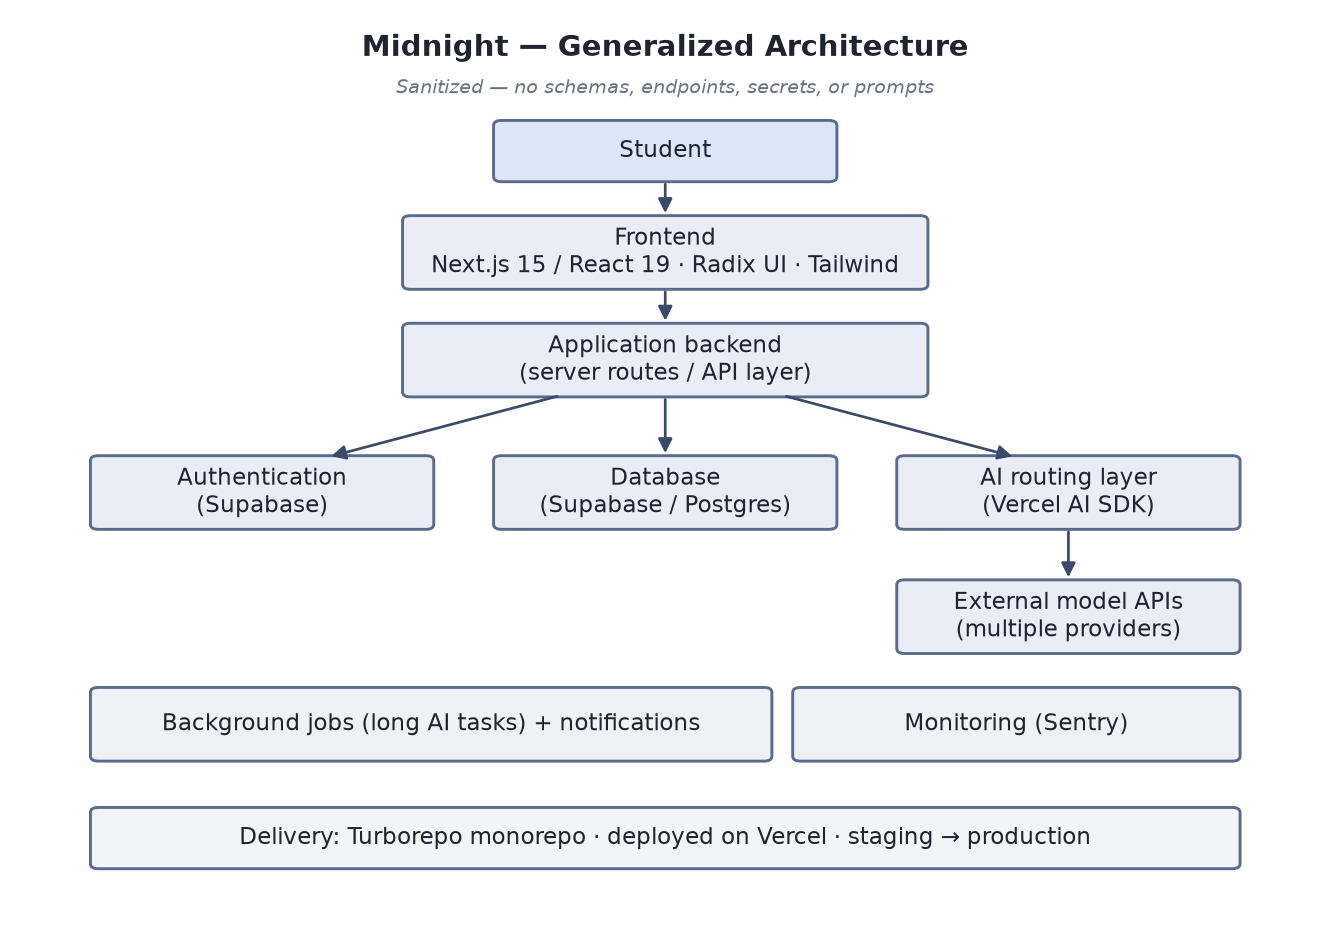
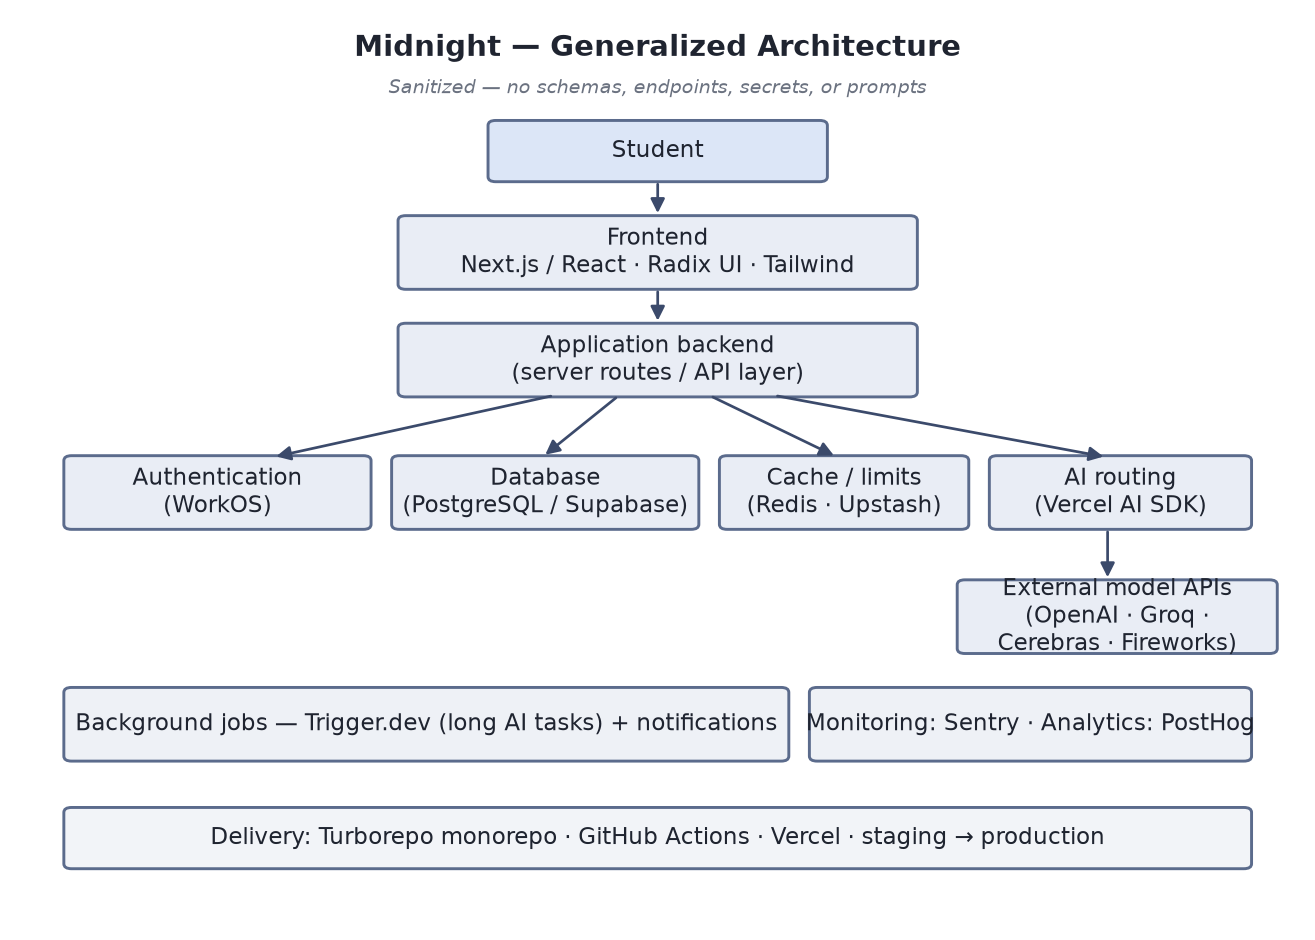
Align metrics & stack with authoritative version
- the beta: ~1,000 live beta users (relabeled), 10M+ views, ~25 contributors
- Role: led product, research, dev priorities, testing, marketing (with co-founder)
- Full verified stack: WorkOS, Upstash Redis, Redux Toolkit, React Query, Trigger.dev,
  PostHog, Playwright/Vitest, GitHub Actions, multi-provider AI (OpenAI/Groq/Cerebras/Fireworks)
- De-feature unverified 70% cost claim; update architecture + timeline diagrams

diff --git a/CASE_STUDY.md b/CASE_STUDY.md
@@ -7,11 +7,13 @@
 ## 1. Executive summary
 Midnight is an AI-powered student success platform ([www.midapp.me](https://www.midapp.me)) that
 helps students turn scattered academic inputs into finished work through AI-assisted grading,
-quiz generation, flashcards, tutoring, and task management. It is a rebuild of an earlier alpha
-product, **the beta**. On the rebuild I served as lead engineer and the top code contributor
-(**1,684 of 3,607 commits, ~47%** — verified from the private repository). This case study
-documents the product problem, the the beta→Midnight transition, my responsibilities, the
-technical approach, and honest results and limitations — without exposing proprietary code.
+quiz generation, flashcards, tutoring, and Canvas LMS integration. It is a rebuild and relaunch of
+an earlier product, **the beta**. Working in close coordination with a co-founder, I led product
+planning, user research, development priorities, testing, and marketing strategy, and served as the
+lead engineer and top code contributor (**1,684 of 3,607 commits, ~47%** — verified from the
+private repository). This case study documents the product problem, the the beta→Midnight transition,
+my responsibilities, the technical approach, and honest results and limitations — without exposing
+proprietary code.
 
 ## 2. The student problem
 Students manage assignments, study materials, deadlines, and feedback across many disconnected
@@ -21,10 +23,11 @@ Midnight targets that gap with a single, student-first workspace where AI helps 
 *organize* academic work, and where long-running tasks keep progressing in the background.
 
 ## 3. The original the beta product
-the beta was the earlier alpha of this idea — an AI-assisted academic tool aimed at students.
-It validated demand and generated meaningful early traction (see the beta metrics in
-[METRICS.md](METRICS.md): reported ~4,000 alpha users, 10M+ social-media views, ~25 contributors).
-*[TO DO: confirm the beta's exact feature scope and launch window.]*
+the beta was the earlier version of this idea — an AI-assisted academic product for students. It
+validated demand and generated meaningful early traction: **approximately 1,000 live beta users**
+and **more than 10 million social-media views**, built with a team of **~25 contributors** (all
+founder-reported; see [METRICS.md](METRICS.md)). *[TO DO: confirm the beta's exact feature scope and
+launch window.]*
 
 ## 4. Problems discovered during the alpha
 The alpha surfaced the usual early-product issues: unclear product focus, features that didn't
@@ -57,17 +60,21 @@ commits). The rest are marked for your confirmation so nothing is overstated.
 | Category | Ownership | Basis |
 |----------|-----------|-------|
 | Engineering (frontend + backend) | **Led** | Verified: 1,684/3,607 commits (~47%), largest share |
-| AI infrastructure (model routing, background jobs) | **Contributed / Co-led** *[TO DO: confirm]* | Stack present in repo; confirm your specific ownership |
-| Product strategy | *Needs confirmation* | [TO DO] |
-| User research | *Needs confirmation* | [TO DO] |
-| Product requirements | *Needs confirmation* | [TO DO] |
-| Analytics | *Needs confirmation* | [TO DO] |
-| Marketing | *Needs confirmation* | [TO DO] |
-| Contributor coordination | *Needs confirmation* | [TO DO] |
-| Launch planning | *Needs confirmation* | [TO DO] |
+| Product planning / strategy | **Led** (with co-founder) | Self-reported |
+| User research | **Led** | Self-reported |
+| Product requirements / development priorities | **Led** | Self-reported |
+| Testing | **Led** | Self-reported (repo also has Playwright/Vitest suites) |
+| Marketing strategy | **Led** | Self-reported |
+| Contributor coordination | **Led / Co-led** | Coordinated ~25 contributors (the beta stage), with co-founder |
+| AI infrastructure (multi-provider routing, background jobs) | **Contributed / Co-led** | Stack verified in repo; confirm exact split |
+| Analytics | **Contributed** *[TO DO: confirm]* | PostHog present in stack |
+| Launch planning | **Co-led** (with co-founder) | Self-reported |
 
-> This case study does **not** claim I personally wrote every part of the application. Midnight
-> is the work of a team of ~13+ contributors; my largest, verifiable contribution is engineering.
+> Work was done in **close coordination with a co-founder**. This case study does not claim I
+> personally built every part of the platform: Midnight is a team effort (~13+ contributors in the
+> current repo; ~25 during the the beta stage). My largest independently verifiable contribution is
+> engineering (top contributor, ~47% of commits); the product/research/testing/marketing leadership
+> above is self-reported.
 
 ## 8. User research and feedback
 Midnight's direction is explicitly student-first, and features map to observed student workflows
@@ -93,23 +100,20 @@ onboarded.]*
 *[TO DO: confirm the single hardest technical problem you personally solved, so it can be
 highlighted here.]*
 
-## 11. AI cost optimization
-A **~70% reduction in AI operational cost** is reported from the the beta era. **This number is not
-yet independently verified in this case study** and should not be published as fact until the
-details below are confirmed. See the verification checklist and before/after table in
-[METRICS.md → AI cost optimization](METRICS.md#ai-cost-optimization).
-
-What can be stated safely today: the current stack integrates **multiple AI model providers**
-behind a routing layer, which is a common enabler of cost control (e.g., routing to
-lower-cost providers for suitable requests). **The specific methods and the exact percentage
-remain `[TO DO: verify]`** — do not state a cause (routing, caching, prompt compression, provider
-change, etc.) until confirmed against real cost data.
+## 11. AI infrastructure
+The platform serves AI features through a **multi-provider routing layer** (Vercel AI SDK over
+OpenAI, Groq, Cerebras, and Fireworks AI), with **Upstash Redis** for rate limiting/caching and
+**Trigger.dev** running long AI tasks as background jobs. This architecture supports flexibility
+across model providers and keeps latency and cost manageable. No specific cost-reduction
+percentage is claimed here; if quantified later, it should be verified first (scope, baseline,
+method) — see [METRICS.md](METRICS.md).
 
 ## 12. Team and collaboration
-Midnight is built by a team (~13+ contributors in the current repository; ~25 reported across the
-the beta era). I was the top code contributor and coordinated closely with other engineers and
-contributors. *[TO DO: confirm co-founder/teammate roles you want represented, described by
-function rather than by name unless they consent to being named.]*
+Midnight is built by a team (~13+ contributors in the current repository; ~25 during the the beta
+stage). I was the top code contributor and worked in **close coordination with a co-founder** on
+product and leadership, while coordinating other engineers and contributors. *[TO DO: confirm how
+you want the co-founder and teammates represented — described by function rather than by name
+unless they consent to being named.]*
 
 ## 13. Launch and growth
 Midnight is live in production at [www.midapp.me](https://www.midapp.me), with a staging

diff --git a/METRICS.md b/METRICS.md
@@ -12,13 +12,12 @@
 | Code contribution (mine) | Share of total commits authored by me in the current repo | **1,684 / 3,607 commits (~47%)** | repo start → Jul 2026 | Private git history (`git shortlog`) | ✅ Yes (from git) |
 | Contributors (current repo) | Distinct commit authors in the current repo | **~13+** | repo start → Jul 2026 | Private git history | ✅ Yes (from git) |
 
-## Historical — the beta (earlier alpha)
-| Metric | Definition | Value | Period | Source | Verified | Notes |
-|--------|-----------|-------|--------|--------|----------|-------|
-| Alpha users | *[TO DO: define — sign-ups? registered? active?]* | ~4,000 *(reported)* | [TO DO] | [TO DO: analytics / founder recollection] | ❌ Not verified | Label precisely before publishing |
-| Social-media views | *[TO DO: define — video views? impressions? which platform(s)?]* | 10M+ *(reported)* | [TO DO] | [TO DO: platform analytics] | ❌ Not verified | "Views" ≠ "reach" ≠ "impressions" — pick one |
-| Contributors | People who contributed to the beta | ~25 *(reported)* | [TO DO] | [TO DO] | ❌ Not verified | Distinguish code vs non-code contributors |
-| AI cost reduction | See AI cost section below | ~70% *(reported)* | [TO DO] | [TO DO] | ❌ Not verified | Scope of "cost" must be defined |
+## Historical — the beta (earlier product)
+| Metric | Definition | Value | Period | Source | Independently verified | Notes |
+|--------|-----------|-------|--------|--------|------------------------|-------|
+| Live beta users | Users on the the beta beta | **~1,000** | [TO DO: date range] | Product analytics (founder-reported) | Self-reported | Precise label; not combined with Midnight |
+| Social-media views | Video views across social channels | **10M+** | [TO DO: date range] | Platform analytics (founder-reported) | Self-reported | "Views" (not "reach"/"impressions") — confirm platform(s) |
+| Contributors | People who contributed during the the beta stage | **~25** | [TO DO: date range] | Founder-reported | Self-reported | Mix of code and non-code contributors |
 
 ## Current — Midnight
 | Metric | Definition | Value | Period | Source | Verified | Notes |
@@ -35,28 +34,13 @@
 > ⚠️ The "~400" figure must be labeled (e.g., "~400 registered users" **or** "~400 monthly active
 > users") — these mean very different things. Do not present it ambiguously.
 
-## AI cost optimization
-The reported **~70% AI cost reduction** cannot be published as fact until verified. Confirm each
-item below, then fill the table.
+## AI cost / infrastructure (not currently claimed as a headline metric)
+No specific cost-reduction percentage is claimed in this case study. What can be stated safely
+from the stack is architectural: the platform integrates **multiple AI model providers**
+(OpenAI, Groq, Cerebras, Fireworks AI) behind a routing layer via the Vercel AI SDK, and uses
+**Upstash Redis** for rate limiting/caching — both common enablers of cost and latency control.
 
-**Verification checklist**
-- [ ] Scope: is "cost" **AI/model API cost**, **infrastructure**, or **total operational cost**?
-- [ ] Baseline period (before) and comparison period (after)
-- [ ] Cost per request before vs after (or total cost normalized by usage)
-- [ ] Did usage volume/patterns change between periods? (a drop in usage is not an optimization)
-- [ ] Did output quality change? (cheaper but worse is not a clean win)
-- [ ] What caused the reduction? (do not state a method until confirmed — e.g., model routing,
-      caching, prompt compression, response-length limits, batching, provider change, architecture)
-
-**Before / after (fill after verification)**
-| | Baseline (before) | After | Change |
-|--|-------------------|-------|--------|
-| Period | [TO DO] | [TO DO] | — |
-| Cost basis (per request / per user / total) | [TO DO] | [TO DO] | [TO DO] |
-| Normalized cost | [TO DO] | [TO DO] | ~70% ↓ *(reported, unverified)* |
-| Method(s) | — | [TO DO: only if verified] | — |
-| Quality impact | — | [TO DO] | — |
-
-*Observed from the stack (not proof of the number): the platform integrates multiple AI providers
-behind a routing layer, which is a common enabler of cost control. This does not by itself confirm
-the 70% figure or its cause.*
+> If you later want to publish a specific figure (e.g., an earlier "~70% reduction"), verify it
+> first: define scope (AI API vs infrastructure vs total), baseline vs comparison period, whether
+> usage/quality changed, and the specific method — then present a before/after. Until then, keep it
+> qualitative and unquantified. `[TO DO: verify before quantifying]`

diff --git a/ARCHITECTURE.md b/ARCHITECTURE.md
@@ -40,14 +40,16 @@ A rendered version is in [assets/architecture-diagram.png](assets/architecture-d
   UI primitives with Tailwind CSS; server state via TanStack Query.
 - **Application backend** — server-side routes handling requests, orchestration, and access to
   data and model providers.
-- **Authentication** — managed auth (Supabase).
-- **Database** — Supabase / Postgres. *Schema intentionally omitted.*
-- **AI routing layer** — a single interface over **multiple model providers** via the Vercel AI
-  SDK, so requests can be served by different providers. *Routing logic and prompts omitted.*
+- **Authentication** — managed auth via **WorkOS (AuthKit)**.
+- **Database** — PostgreSQL (Supabase). *Schema intentionally omitted.*
+- **Caching / rate limiting** — Redis (Upstash).
+- **AI routing layer** — a single interface over **multiple model providers** (OpenAI, Groq,
+  Cerebras, Fireworks AI) via the Vercel AI SDK, so requests can be served by different providers.
+  *Routing logic and prompts omitted.*
 - **Background jobs** — long-running AI work (grading, generation, tutoring artifacts, generated
-  media) runs asynchronously so the UI stays responsive; progress is tracked and completion
-  triggers notifications.
-- **Monitoring** — error tracking / observability (Sentry).
+  media) runs asynchronously via **Trigger.dev** so the UI stays responsive; progress is tracked
+  and completion triggers notifications.
+- **Monitoring & analytics** — error tracking (Sentry) and product analytics (PostHog).
 - **Delivery** — monorepo (Turborepo + Yarn workspaces), deployed on Vercel, with staging used to
   validate configuration and deploys before production.
 
@@ -56,17 +58,23 @@ Confirmed by inspecting the private repository's manifests (library names are no
 
 | Layer | Technology |
 |-------|-----------|
-| Language / tooling | TypeScript, Turborepo, Yarn workspaces, Prettier, ESLint, Vitest, Husky |
-| Frontend | Next.js 15, React 19, Radix UI, Tailwind CSS, TanStack Query |
-| Auth & data | Supabase (auth + Postgres) |
-| AI | Vercel AI SDK with multiple model providers |
-| Background / async | Background job processing for long AI tasks *[TO DO: confirm which items to name publicly]* |
-| Monitoring | Sentry |
-| Hosting | Vercel |
+| Language / tooling | TypeScript, Node.js, Turborepo, Yarn workspaces, Prettier, ESLint, Husky |
+| Frontend | Next.js, React, Tailwind CSS, Radix UI |
+| State / data-fetching | Redux Toolkit, React Query (TanStack Query) |
+| Auth | WorkOS (AuthKit) |
+| Database | PostgreSQL (Supabase) |
+| Caching / rate limiting | Redis (Upstash) |
+| AI | Multi-provider LLM integration via the Vercel AI SDK — OpenAI, Groq, Cerebras, Fireworks AI (Llama, GPT-OSS, and GLM model families) |
+| Background jobs | Trigger.dev (long-running AI tasks) |
+| Email | Resend / React Email |
+| Analytics & monitoring | PostHog, Sentry |
+| Testing | Playwright (E2E), Vitest (unit) |
+| CI/CD & hosting | GitHub Actions, Vercel |
+| Mobile | React Native (Expo) *(founder-reported; separate from the web repo inspected here)* |
 
 > Interactive/rich tutor features (e.g., graphing, simulations, generated media, knowledge-graph
-> visualization) exist in the product; the specific libraries and implementation are omitted here
-> to keep the case study non-sensitive. *[TO DO: confirm which, if any, you want named publicly.]*
+> visualization) exist in the product; specific libraries and implementation are omitted here to
+> keep the case study non-sensitive.
 
 ## Deliberately omitted (for security and IP)
 - Endpoint names, internal routes, and API contracts

diff --git a/README.md b/README.md
@@ -19,11 +19,12 @@ from an earlier alpha product called **the beta**. Approximately **400 [TO DO: c
 definition — see METRICS.md]** current users.
 
 ## My role
-Lead engineer and the top code contributor on the rebuild. Verified from the private repository:
-**1,684 of 3,607 commits (~47%)** — the single largest share among ~13+ contributors. Detailed,
-category-by-category ownership (product, AI infrastructure, analytics, etc.) is in
+Led product planning, user research, development priorities, testing, and marketing strategy, in
+close coordination with a co-founder — and served as lead engineer and the top code contributor.
+Verified from the private repository: **1,684 of 3,607 commits (~47%)**, the single largest share
+among ~13+ contributors. Category-by-category ownership is in
 [CASE_STUDY.md → My responsibilities](CASE_STUDY.md#7-my-responsibilities).
-*[TO DO: confirm your preferred title — e.g., "Founding Engineer", "Co-founder & Lead Engineer".]*
+*[TO DO: confirm your preferred title — e.g., "Co-founder & Lead Engineer".]*
 
 ## Main problem
 Students juggle assignments, study materials, and deadlines across many disconnected tools.
@@ -31,23 +32,27 @@ Midnight aims to reduce that friction with a single, student-first workspace whe
 create and organize academic work while background jobs keep long tasks moving.
 
 ## Key contributions
-- Led the engineering rebuild from the the beta alpha to the current Midnight platform.
-- Built AI-assisted academic tools (grading, quiz generation, flashcards, tutoring workspace).
-- Worked on the multi-provider AI routing layer that the platform uses to serve model requests.
-- *[TO DO: confirm involvement in AI cost optimization, analytics, and launch — see CASE_STUDY.md.]*
+- Led the rebuild and relaunch from the earlier the beta product to the current Midnight platform,
+  applying lessons to product design, UX, team structure, and technical infrastructure.
+- Led product planning, user research, development priorities, testing, and marketing strategy.
+- As lead engineer, built across the codebase (AI-assisted grading, quiz/flashcard generation with
+  spaced repetition, tutor workspace, Canvas LMS integration) — top contributor at ~47% of commits.
+- Worked on the multi-provider AI routing layer serving model requests across providers.
 
 ## Verified results
-- Top contributor: **1,684 / 3,607 commits (~47%)** (source: private git history).
-- Production platform live at www.midapp.me with a multi-tool AI workspace.
-- Historical the beta alpha and current Midnight metrics are listed **separately and precisely** in
-  [METRICS.md](METRICS.md) — reported numbers (e.g., "4,000 alpha users", "70% AI cost
-  reduction") are labeled and marked for verification; they are **not** combined.
+- **Top contributor: 1,684 / 3,607 commits (~47%)** (source: private git history).
+- Production platform live at **www.midapp.me** with a multi-tool AI workspace.
+- **Predecessor (the beta):** ~1,000 live beta users, 10M+ social-media views, ~25 contributors
+  (founder-reported). the beta and Midnight numbers are kept **separate and precisely labeled** in
+  [METRICS.md](METRICS.md) — never combined.
 
 ## Technology overview
-TypeScript monorepo (Turborepo + Yarn workspaces) on **Next.js 15 / React 19**, **Supabase**
-(auth + database), the **Vercel AI SDK** with multiple model providers, **Radix UI + Tailwind
-CSS**, background job processing, and **Sentry** monitoring, deployed on **Vercel**. Full
-(sanitized) detail in [ARCHITECTURE.md](ARCHITECTURE.md).
+TypeScript monorepo (Turborepo + Yarn) on **Next.js / React**, **WorkOS** auth, **PostgreSQL
+(Supabase)**, **Redis (Upstash)**, **Redux Toolkit + React Query**, **Tailwind CSS + Radix UI**,
+**Trigger.dev** background jobs, **PostHog + Sentry**, tested with **Playwright + Vitest**, and
+deployed on **Vercel** via **GitHub Actions**. AI: **multi-provider LLM integration** (OpenAI,
+Groq, Cerebras, Fireworks AI — Llama, GPT-OSS, GLM families) via the Vercel AI SDK. A React Native
+(Expo) mobile app is part of the product. Full (sanitized) detail in [ARCHITECTURE.md](ARCHITECTURE.md).
 
 ## Links
 - **Live product:** [www.midapp.me](https://www.midapp.me)